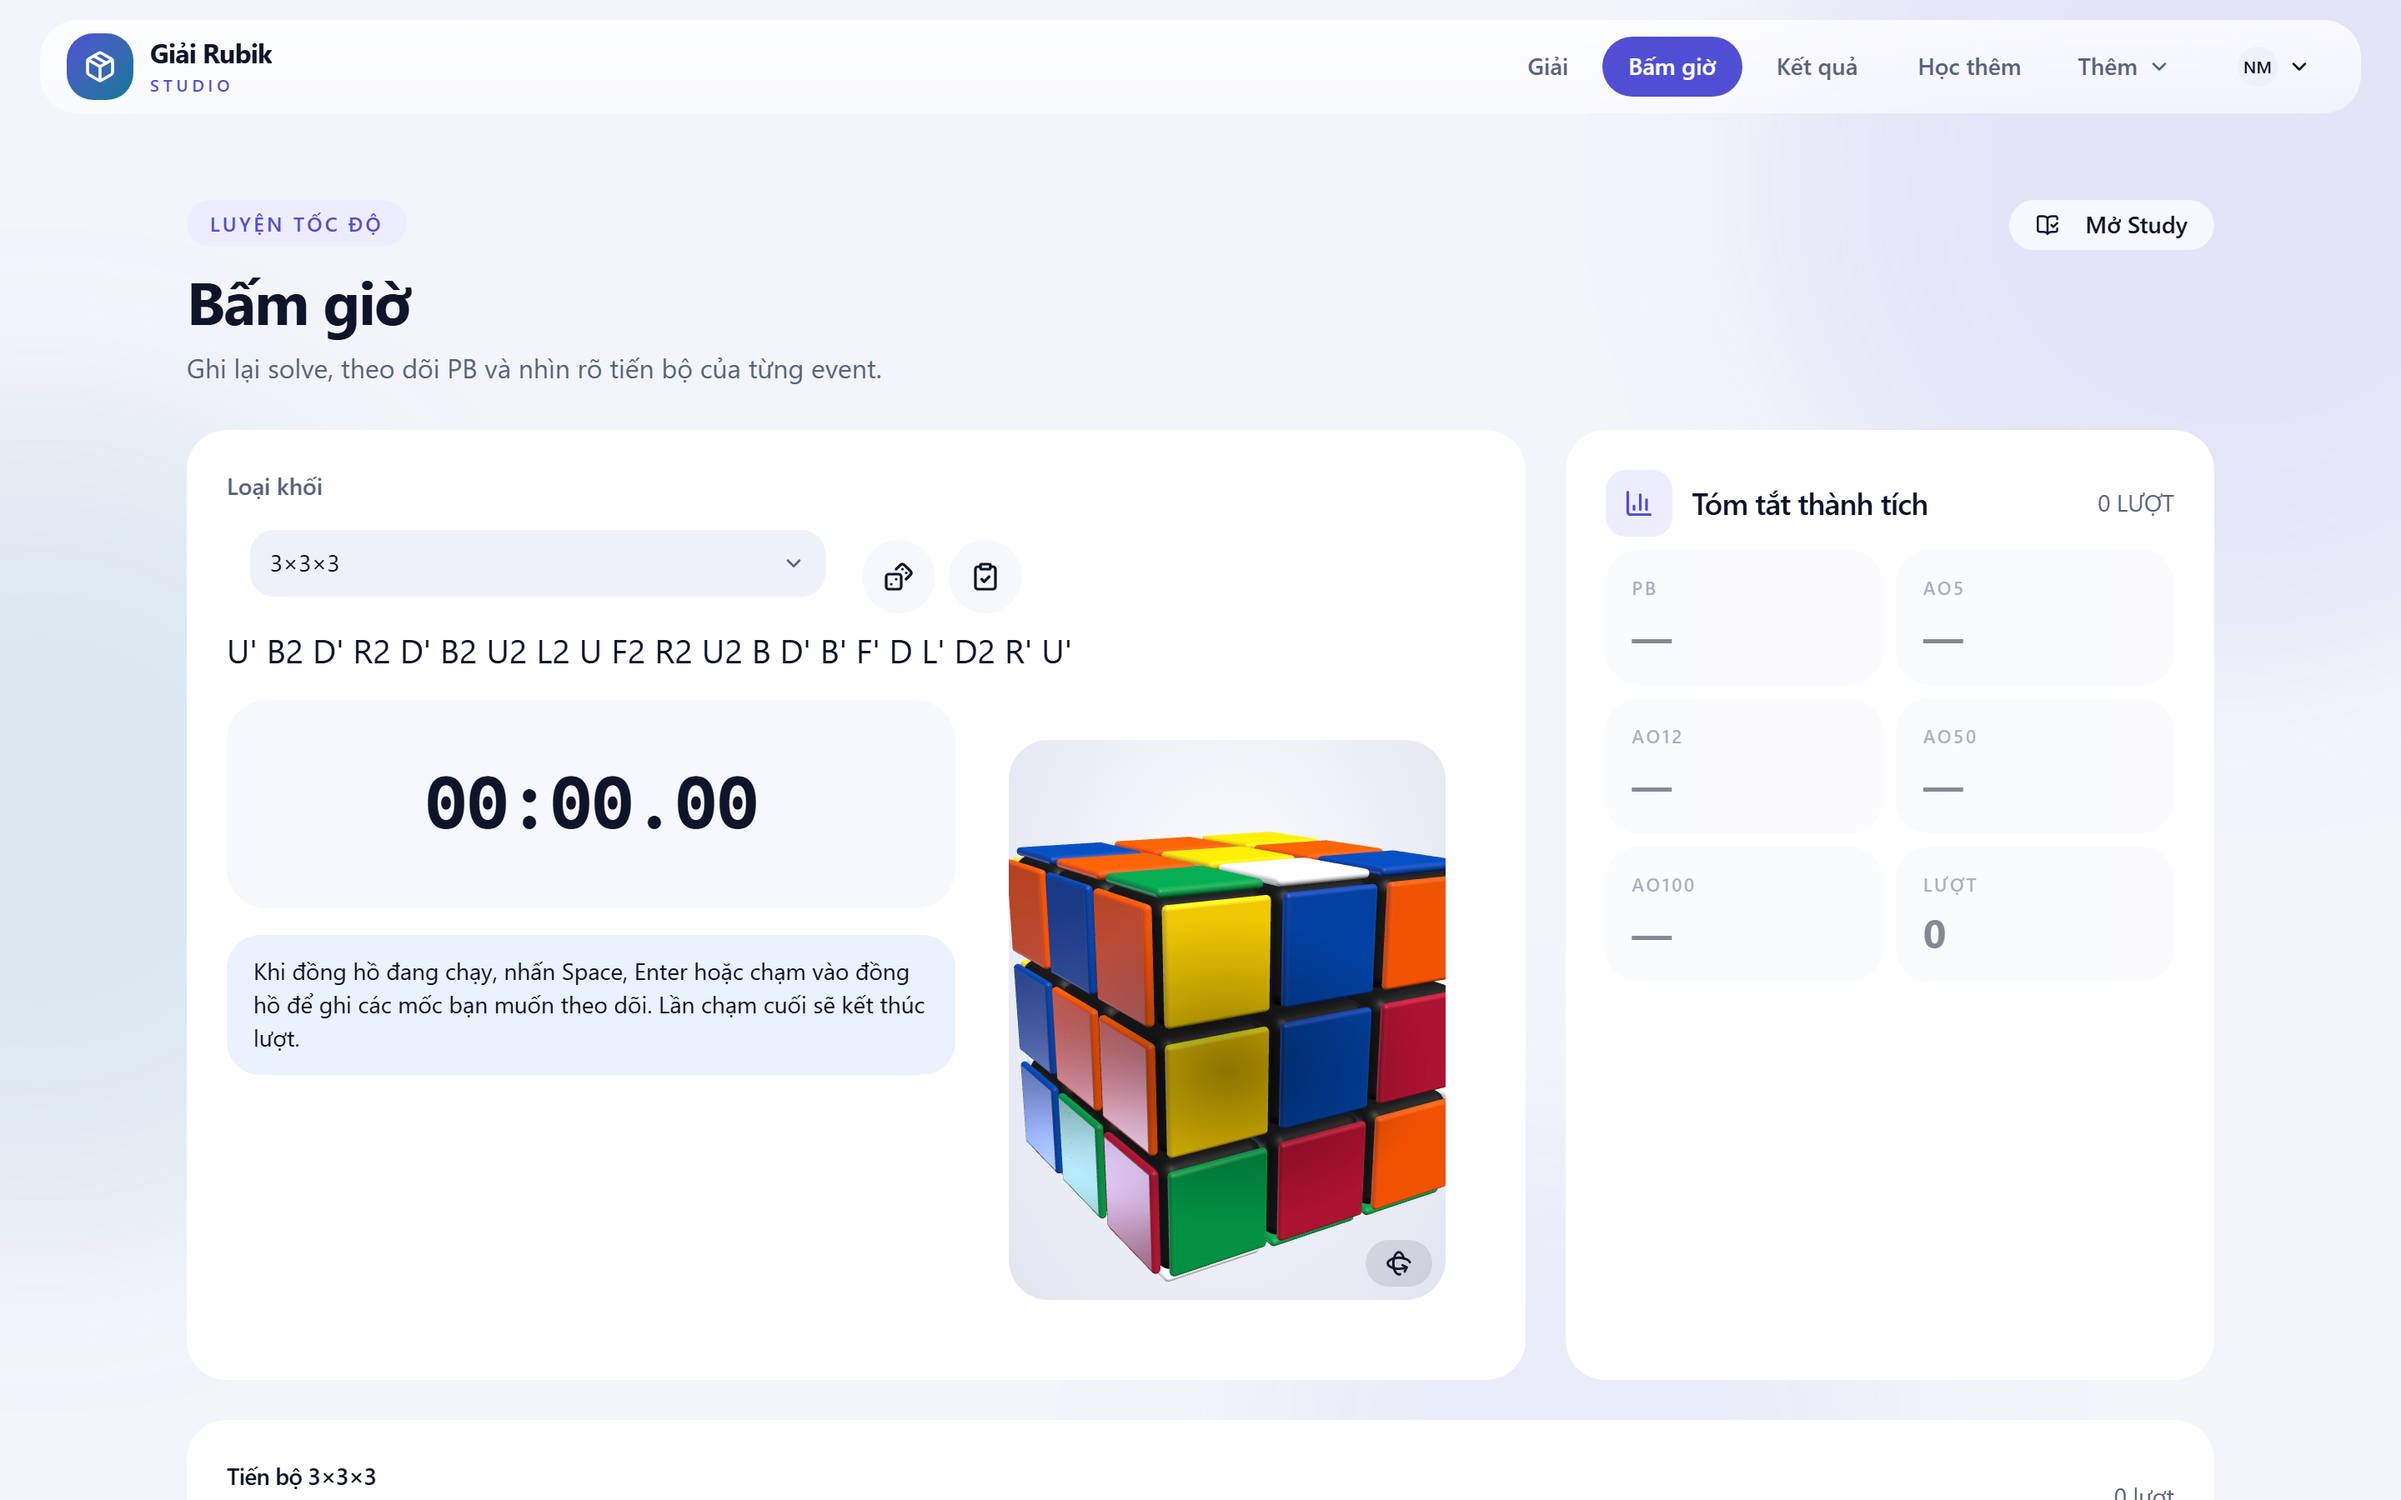
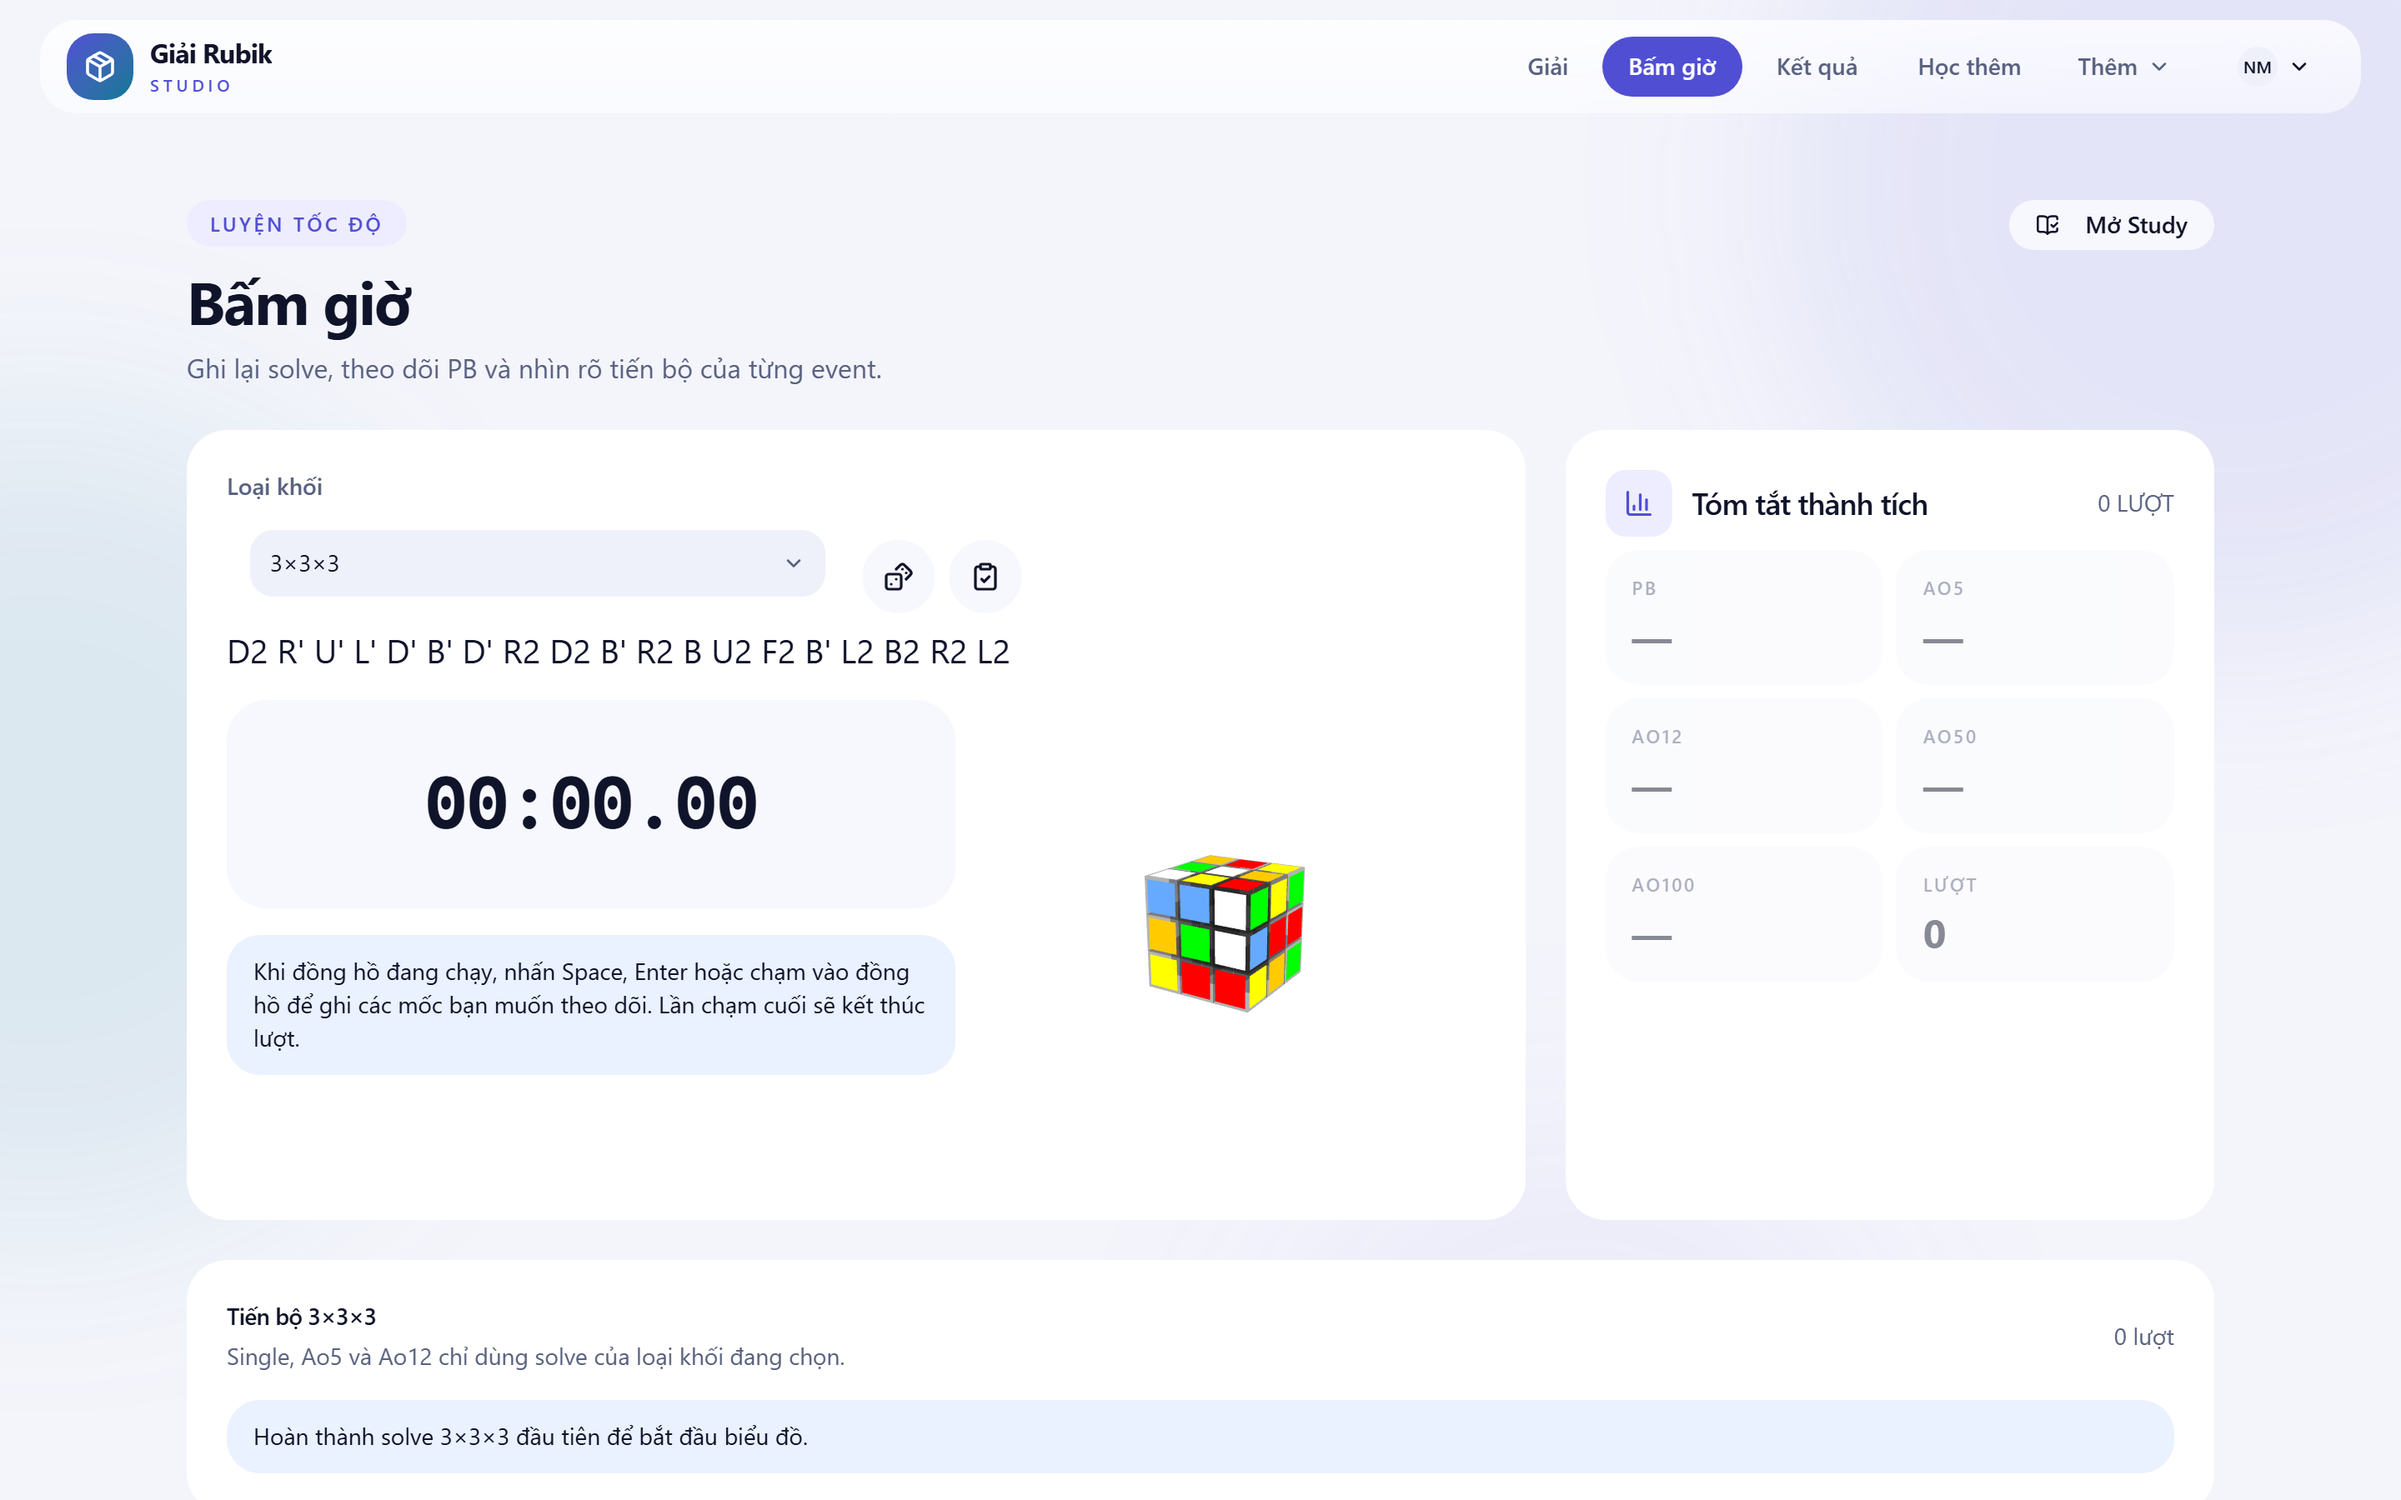
docs: timer screenshot and notes for the cubing.js previews
The README timer screenshot now shows the cubing.js 3x3 cube. The integration notes and replay verification notes are updated to describe the current behavior (full-sequence replay, inputKind=state notice, no per-move controls).

diff --git a/docs/validation/replay_verification_notes.md b/docs/validation/replay_verification_notes.md
@@ -1,5 +1,7 @@
 # Replay verification notes
 
+> Cập nhật 2026-11: dialog Phát lại được đơn giản hóa — khối 3D render bằng Cubing.js (`PuzzleScramblePreview` + `animationAlg`), tự chạy cả chuỗi solution khi mở, nút **Phát solution** chạy lại từ đầu. Bỏ nút từng nước (`Nước trước`/`Nước sau`), speed slider và bộ đếm bước; `traceFastMoves` không còn dùng trong Timer. Entry lưu dạng `inputKind: "state"` không dựng lại được khối (không có scramble để feed `experimental-setup-alg`) — dialog hiện thông báo thay vì khối 3D.
+
 Trong phiên My Browser tại `/timer?from_webdev=1` và `/history`, History hiện có 10 solve thực. Tất cả record hiển thị `0 nước xoay`, do đó chưa có solution đã lưu để mở replay thực tế. Các record này không bị chỉnh sửa.
 
 Replay đã được xác minh qua fixture jsdom cô lập: scramble `R U`, solution hợp lệ `U' R'`, thời gian 4 giây. Test mở dialog qua PB, kiểm tra trace hai bước, sau đó dùng control “Nước sau” để chuyển Cube 3D từ bước 0 sang `U'` ở bước 1. Đây là cùng code path `validateRecordedSolution` → `openReplay` → `traceFastMoves` mà ứng dụng dùng cho solve đã lưu.

diff --git a/docs/research/timer-event-preview-wca-notes.md b/docs/research/timer-event-preview-wca-notes.md
@@ -2,6 +2,8 @@
 
 ## Preview scramble
 
+> Cập nhật 2026-11: 2×2×2 và toàn bộ các event 3×3 (333, 333oh, 333bf, 333fm, 333mbf) cũng render bằng Cubing.js như các event khác; khối preview trong Timer và dialog Phát lại đều dùng `Puzzle3DCanvas` (`experimentalCurrentThreeJSPuzzleObject`). Cube Three.js nội bộ (`CubeGuide3D`) chỉ còn ở trang Giải/Study/BLD. Dialog Phát lại bỏ chế độ từng nước (`Nước trước/Nước sau`); Cubing.js tự chạy cả chuỗi solution (`alg` + `play()`), nút Phát solution chạy lại từ đầu.
+
 - `cubing/twisty` cung cấp `TwistyPlayer` cho nhiều puzzle và nhận `puzzle`, `alg`, `experimental-setup-alg`, `background` cùng kích thước CSS.
 - Để hiển thị **trạng thái scramble**, dùng `experimental-setup-alg=<scramble>` và không phát một lời giải. `puzzle` dự kiến: `2x2x2`, `pyraminx`, `megaminx`.
 - Không ép chế độ 2D vì tài liệu nêu chỉ một số puzzle hỗ trợ 2D. Dùng player 3D tĩnh, không control panel, background trong suốt để tránh preview sai với Pyraminx/Megaminx.
